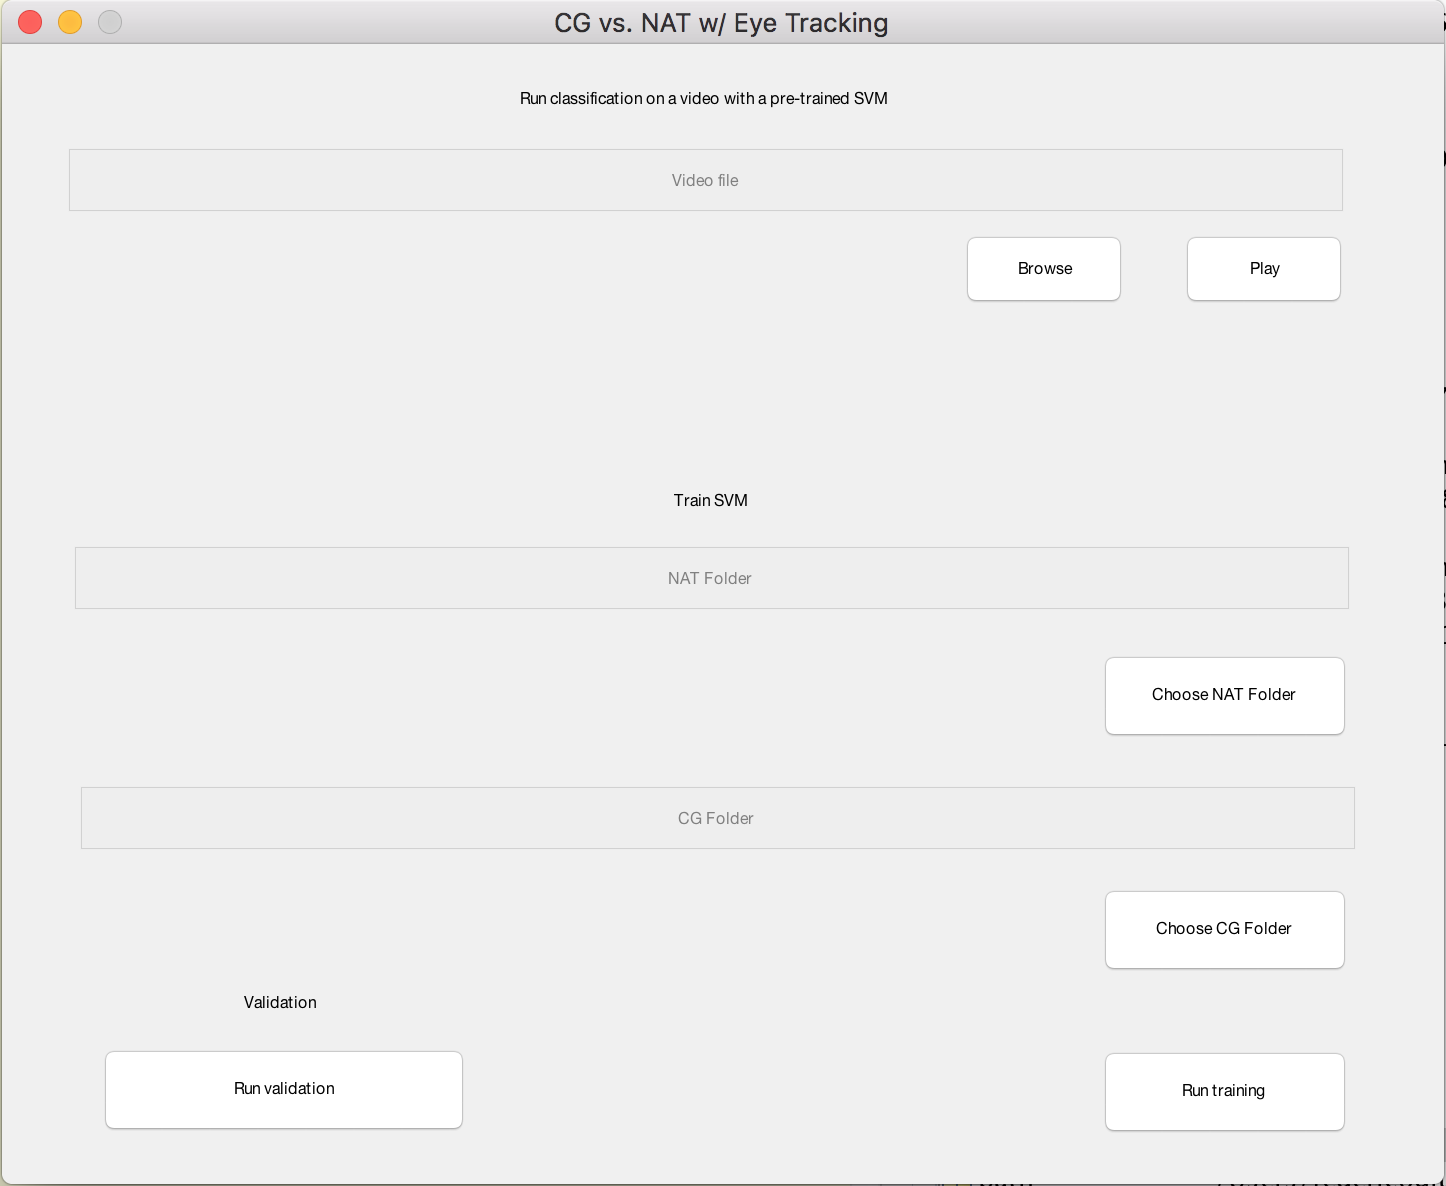
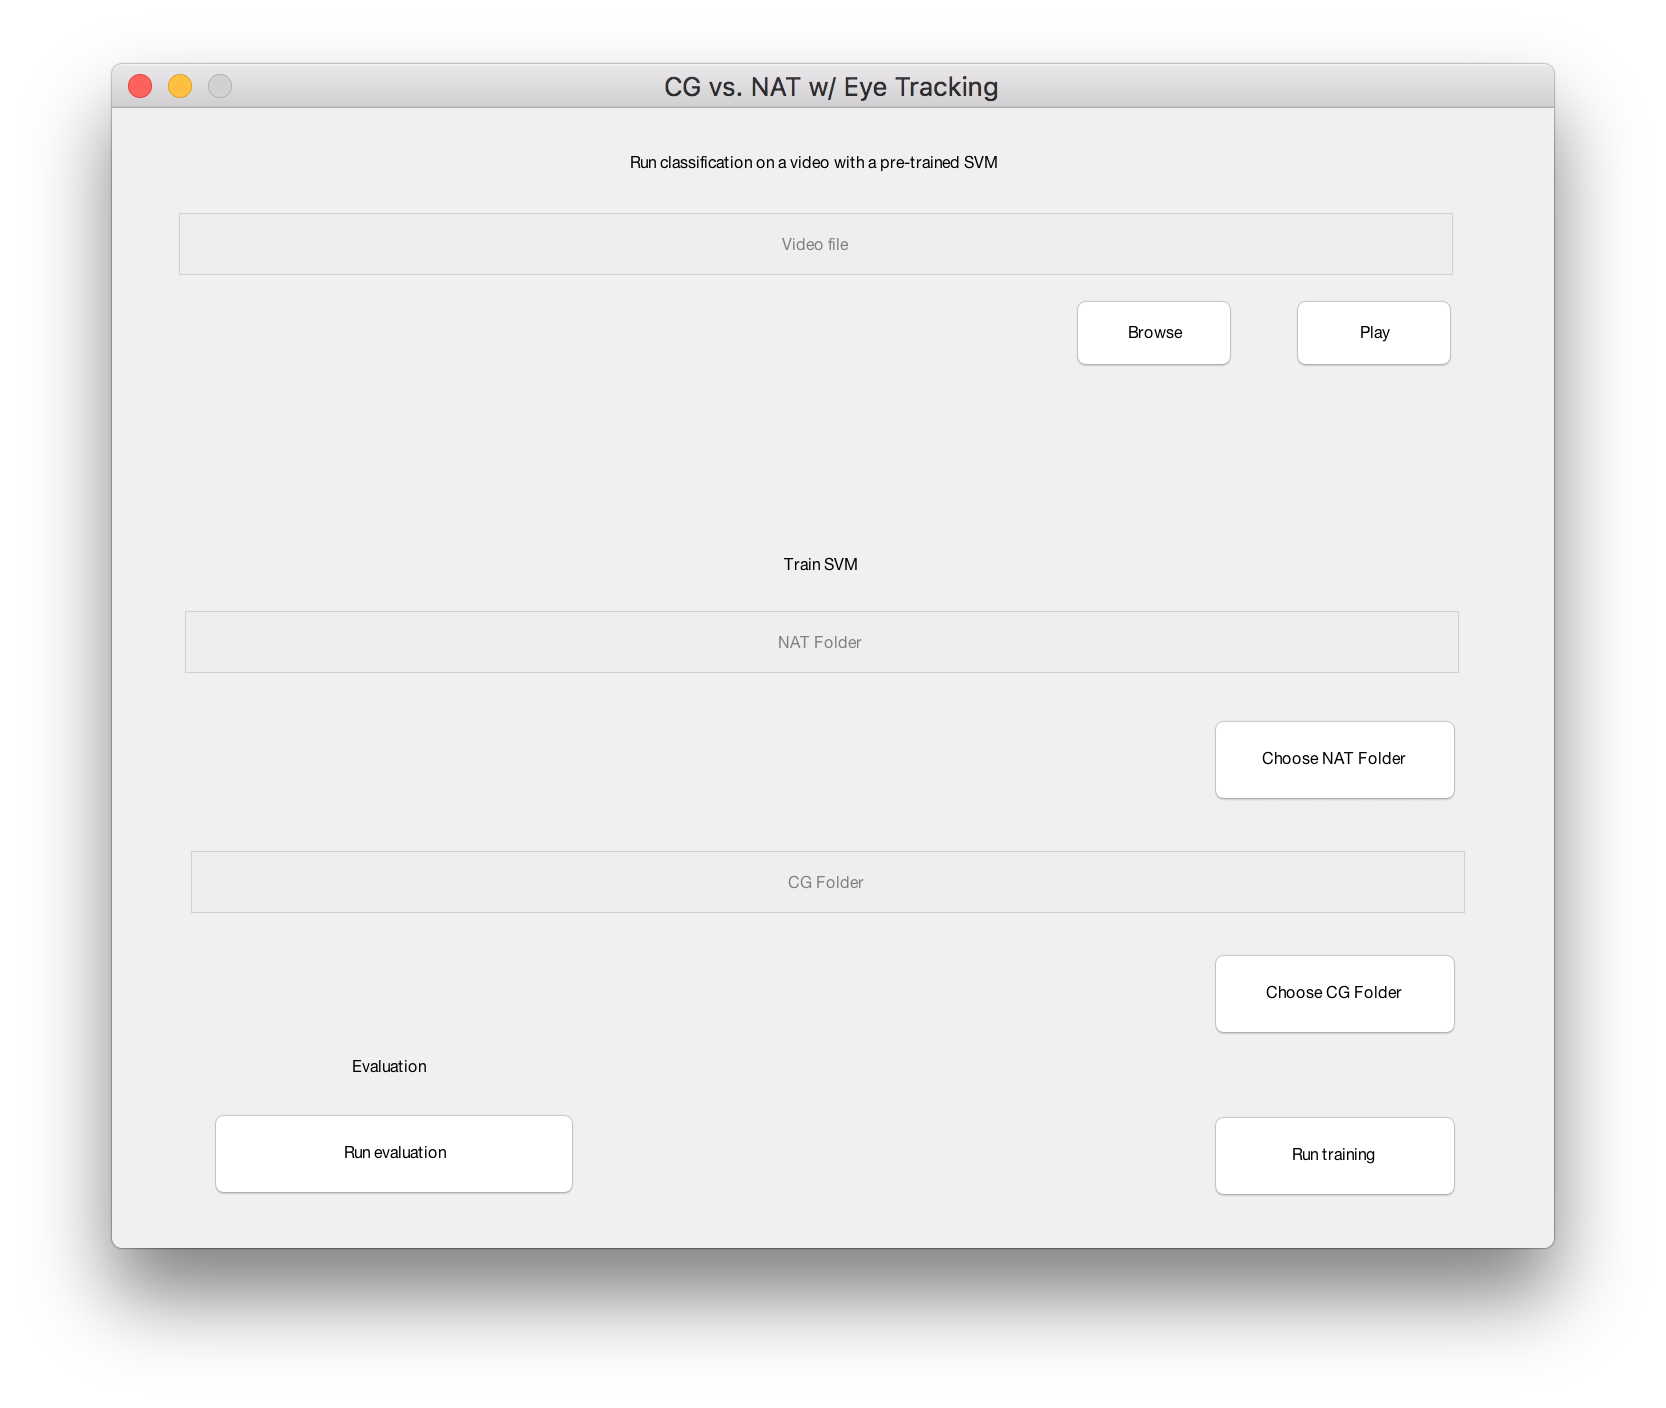
ok

diff --git a/README.md b/README.md
@@ -1,3 +1,27 @@
 # CG vs NAT w/ Eye Tracking
 
+> Main menu, shown once 'run_main.m' is run
 ![](main_menu.png)
+
+## Classification of an existing video
+
+Use the top part of the main menu.
+- Browse button: Choose the video to classify
+- Play: Start video analysis
+
+Once the analysis has been started, wait for it to complete (could take up to three times the length of the video, depending on the CPU of the computer).
+At the end of the analysis Matlab will prompt for the .mat file containing the trained SVM model. Some models are already inside the '3.Results/models' folder.
+
+## Run feature collection and SVM training
+
+- Choose NAT Folder button: choose the folder containing natural videos to use for training
+- Choose CG Folder button: choose the folder containing Computer Generated videos to use for training
+- Run training button: Start analyzing all videos and train the SVM at the end of the process
+
+Once the process is complete, Matlab will prompt to save the .mat file containing all the samples obtained from the videos.
+After this, training will start and Matlab will prompt to save the trained SVM as a .mat file.
+
+## Run evaluation of a trained SVM
+
+Matlab will prompt for a .mat file containing the samples.
+Once chosen, kfold cross validation with 20 folds will be run.
